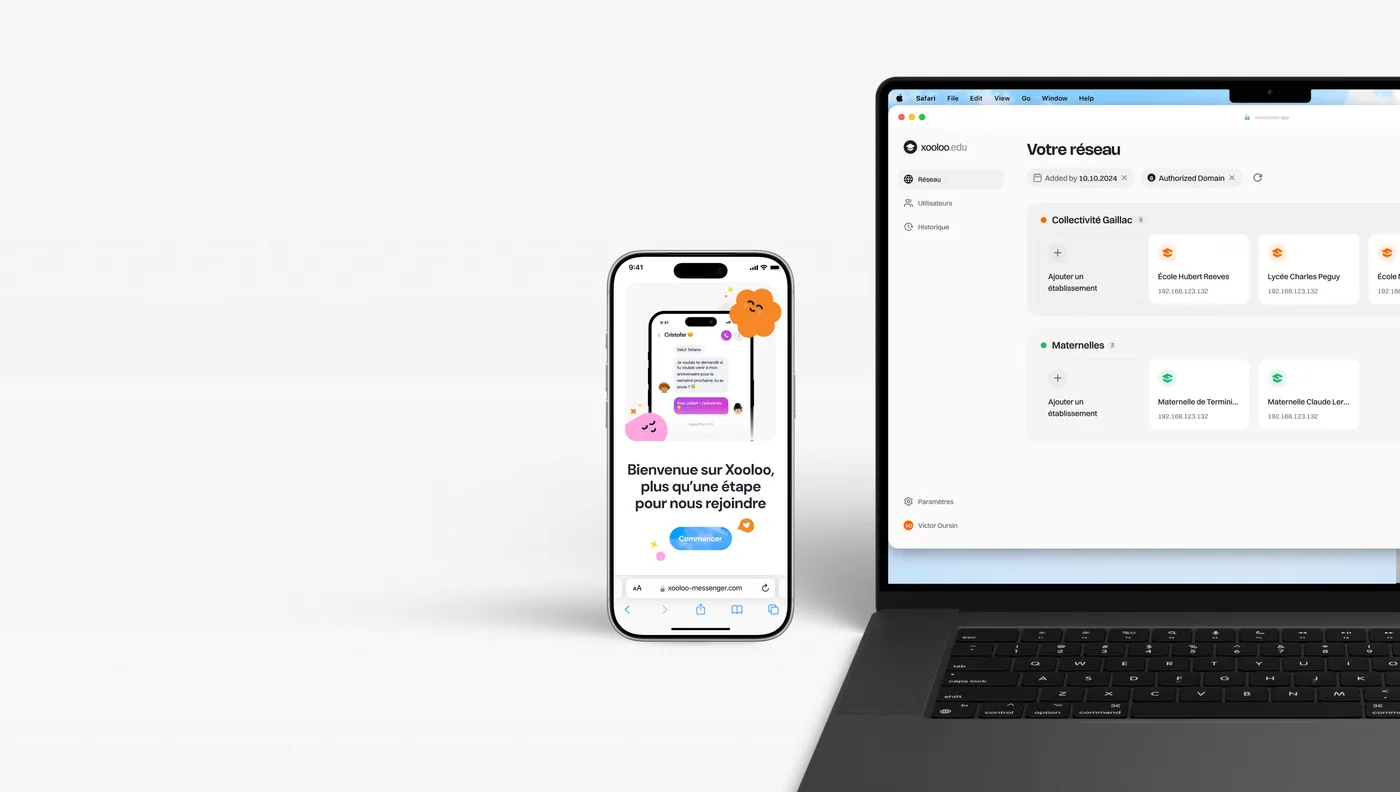
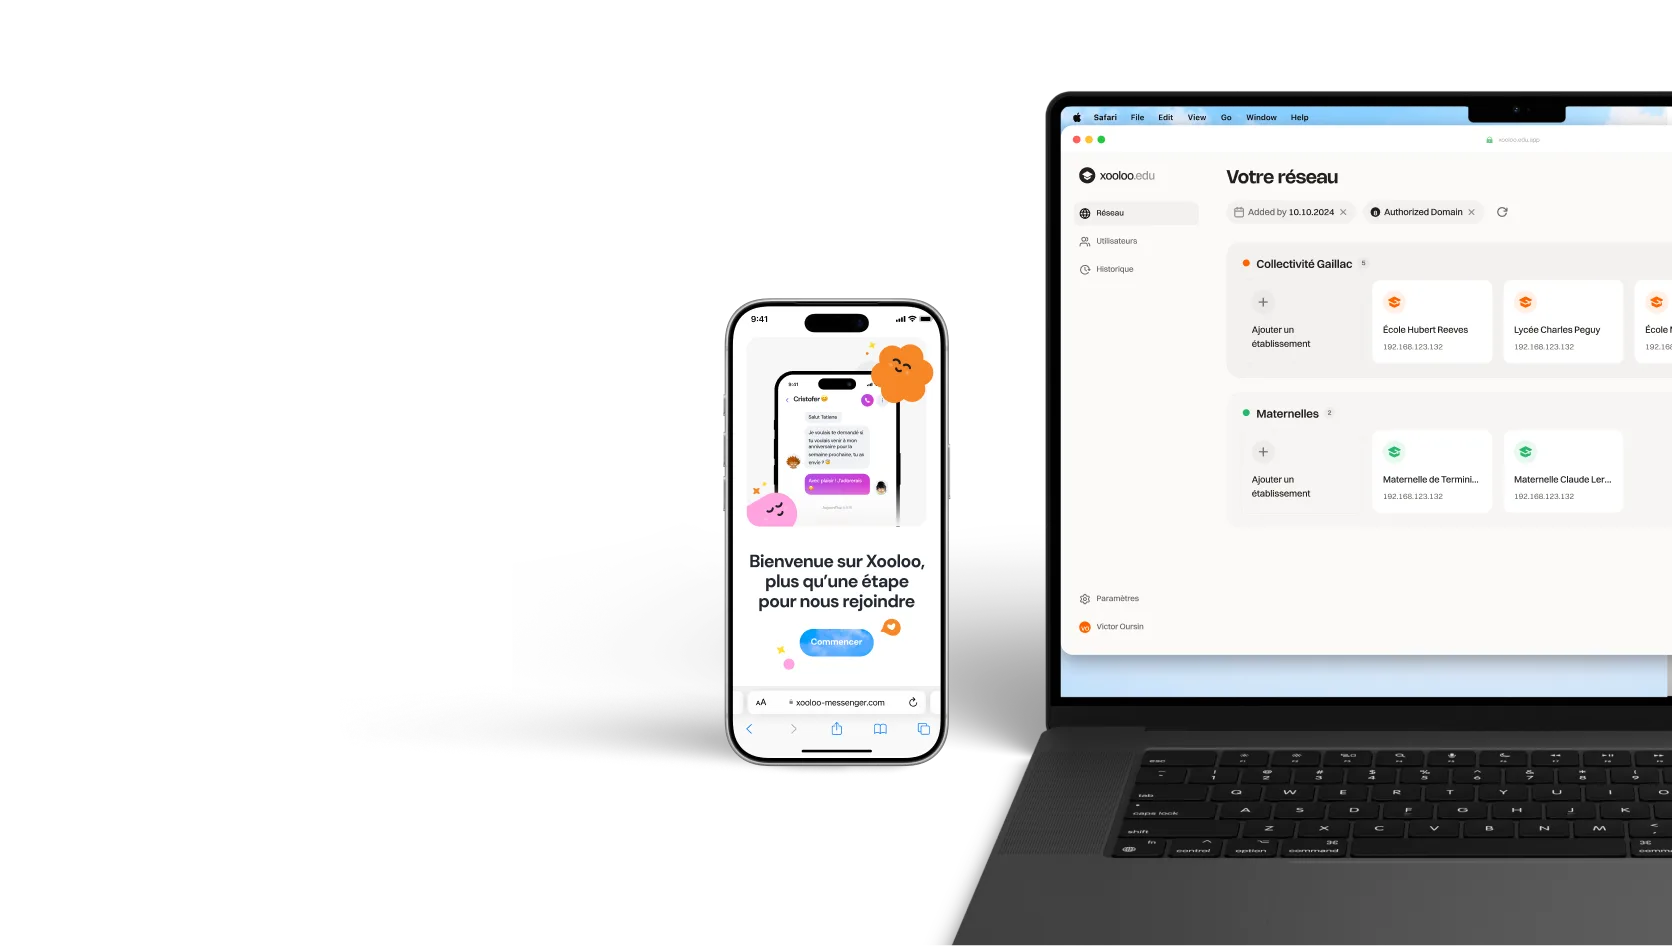
Refonte DA - Optimization mobile

diff --git a/components/ui/WorkCard.tsx b/components/ui/WorkCard.tsx
@@ -92,7 +92,7 @@ export default function WorkCard({
       ref={rootRef}
       data-work-card={slug || undefined}
       onClick={handleCardClick}
-      className={`relative w-full ${fill ? "h-full" : ""} rounded-[40px] overflow-hidden ${lightMode ? "light-card light-card-border" : "bg-background-surface"}${
+      className={`group relative w-full ${fill ? "h-full" : ""} rounded-[40px] overflow-hidden ${lightMode ? "light-card light-card-border" : "bg-background-surface"}${
         expandable
           ? " cursor-pointer transition-[outline-color] duration-200 outline outline-2 outline-transparent outline-offset-[-2px] hover:outline-alpha"
           : ""
@@ -170,8 +170,17 @@ export default function WorkCard({
                 className="hidden min-[426px]:block relative overflow-hidden w-full md:w-[575px]"
                 style={{ height: 40 }}
               >
-                {/* Scrolling logos — offset 107px on desktop to leave room for "Worked on" label */}
-                <div className="absolute inset-y-0 left-0 md:left-[107px]">
+                {/* Scrolling logos — offset 107px on desktop to leave room for "Worked on" label.
+                    Edges fade via a transparency mask so logos blend over any background. */}
+                <div
+                  className="absolute inset-y-0 left-0 right-0 md:left-[107px]"
+                  style={{
+                    WebkitMaskImage:
+                      "linear-gradient(to right, transparent 0, black 40px, black calc(100% - 40px), transparent 100%)",
+                    maskImage:
+                      "linear-gradient(to right, transparent 0, black 40px, black calc(100% - 40px), transparent 100%)",
+                  }}
+                >
                   <motion.div
                     className="flex items-center gap-8 h-full w-max"
                     animate={{ x: ["0%", "-50%"] }}
@@ -196,26 +205,10 @@ export default function WorkCard({
                   </motion.div>
                 </div>
 
-                {/* Left fade + "Worked on" label */}
-                <div
-                  aria-hidden
-                  className="absolute inset-y-0 left-0 pointer-events-none w-[90px] md:w-[320px]"
-                  style={{ background: "linear-gradient(to right, var(--color-bg-surface) 31%, transparent 100%)" }}
-                />
+                {/* "Worked on" label — sits left of the masked logo track */}
                 <p className="hidden md:block absolute left-0 top-1/2 -translate-y-1/2 font-body text-s text-text-secondary whitespace-nowrap">
                   Worked on
                 </p>
-
-                {/* Right fade */}
-                <div
-                  aria-hidden
-                  className="absolute inset-y-0 right-0 pointer-events-none"
-                  style={{
-                    width: 90,
-                    background:
-                      "linear-gradient(to left, var(--color-bg-surface) 31%, transparent 100%)",
-                  }}
-                />
               </div>
             )}
           </div>
@@ -241,6 +234,7 @@ export default function WorkCard({
                   type="button"
                   tabIndex={-1}
                   aria-hidden
+                  className="group-hover:bg-alpha"
                 />
               )}
             </div>

diff --git a/components/work/illustrations.tsx b/components/work/illustrations.tsx
@@ -5,13 +5,24 @@ import Image from "next/image";
 
 export function EnumaIllustration() {
   return (
-    <div className="absolute inset-0 top-[-170px] right-[-340px] bottom-0 left-8 max-lg:top-[-96px] max-lg:right-[-160px] max-lg:bottom-[160px] max-lg:left-[40px] max-md:top-[-176px] max-md:right-[-160px] max-md:left-[24px] max-md:bottom-[96px] max-[425px]:top-[-250px] max-[425px]:bottom-[150px] max-[425px]:left-0 max-[425px]:right-0 pointer-events-none" aria-hidden>
+    <div className="absolute inset-0 top-[-170px] right-[-340px] bottom-0 left-12 max-lg:top-[-96px] max-lg:bottom-0 max-md:top-0 max-md:right-auto max-md:bottom-0 max-md:left-8 max-md:w-full pointer-events-none" aria-hidden>
+      {/* Desktop / tablet asset (≥ 768px) */}
       <Image
         src="/img/work/enuma_illustration.png"
         alt=""
-        fill
+        width={4036}
+        height={2349}
         sizes="(max-width: 1024px) 100vw, 1280px"
-        className="object-cover opacity-[0.72]"
+        className="w-full object-cover opacity-[0.72] hidden md:block"
+      />
+      {/* Mobile asset (< 768px) */}
+      <Image
+        src="/img/work/enuma_illustration_mobile.webp"
+        alt=""
+        width={1374}
+        height={1350}
+        sizes="100vw"
+        className="w-full object-cover opacity-[0.72] md:hidden"
       />
     </div>
   );
@@ -20,15 +31,26 @@ export function EnumaIllustration() {
 export function MosoIllustration() {
   return (
     <div
-      className="absolute inset-0 max-md:top-[-90px] max-md:right-[-470px] max-md:left-[-28px] max-[425px]:top-[-60px] max-[425px]:right-[-162px] max-[425px]:left-0 pointer-events-none"
+      className="absolute inset-0 bottom-0 left-12 max-lg:right-[-96px] max-lg:bottom-0 max-md:top-0 max-md:right-auto max-md:bottom-0 max-md:left-8 max-md:w-[686px] pointer-events-none"
       aria-hidden
     >
+      {/* Desktop / tablet asset (≥ 768px) */}
       <Image
-        src="/img/work/moso_illustration.png"
+        src="/img/work/moso_illustration.webp"
         alt=""
-        fill
+        width={4036}
+        height={2349}
         sizes="(max-width: 1024px) 100vw, 1280px"
-        className="object-cover object-top"
+        className="w-full object-cover hidden md:block"
+      />
+      {/* Mobile asset (< 768px) */}
+      <Image
+        src="/img/work/moso_illustration_mobile.webp"
+        alt=""
+        width={1020}
+        height={832}
+        sizes="100vw"
+        className="w-full object-cover md:hidden"
       />
     </div>
   );

diff --git a/components/sections/Work.tsx b/components/sections/Work.tsx
@@ -1,6 +1,7 @@
 "use client";
 
 import { useState, useEffect, useRef, useCallback } from "react";
+import Image from "next/image";
 import { motion, useInView } from "framer-motion";
 import { useTranslation } from "@/lib/i18n";
 import { loc, type HomepageData } from "@/lib/queries";
@@ -49,12 +50,37 @@ export default function Work({ sliderOnly = false, data }: { sliderOnly?: boolea
       card: {
         lightMode: true,
         illustration: (
-          <img
-            src="/img/work/more.webp"
-            alt=""
-            className="absolute pointer-events-none max-w-none max-[425px]:top-[-53px] max-[425px]:left-[-80px] max-[425px]:w-[836px] max-[425px]:h-[473px] min-[426px]:top-[-112px] min-[426px]:left-[-128px] min-[426px]:w-[1086px] min-[426px]:h-[614px] md:top-[-2px] md:left-0"
+          <>
+          {/* Light gradient — sits behind the (transparent) illustration as the card background */}
+          <div
+            className="absolute inset-0 pointer-events-none"
+            style={{ background: "linear-gradient(180deg, rgba(245, 245, 245, 0.88) 0%, rgba(245, 245, 245, 0.72) 100%)" }}
             aria-hidden
           />
+          <div
+            className="absolute pointer-events-none max-[425px]:w-full min-[426px]:top-[-112px] min-[426px]:left-[-128px] min-[426px]:w-[1086px] md:top-[-2px] md:left-0"
+            aria-hidden
+          >
+            {/* Default asset (≥ 426px) */}
+            <Image
+              src="/img/work/more.webp"
+              alt=""
+              width={1672}
+              height={946}
+              sizes="(max-width: 1024px) 100vw, 1086px"
+              className="w-full object-cover max-[425px]:hidden"
+            />
+            {/* Mobile asset (< 426px) */}
+            <Image
+              src="/img/work/more_mobile.webp"
+              alt=""
+              width={328}
+              height={420}
+              sizes="100vw"
+              className="w-full object-cover hidden max-[425px]:block"
+            />
+          </div>
+          </>
         ),
         customContent: (
           <div className="absolute bottom-0 left-0 right-0 p-6 md:px-[48px] md:py-[48px] flex flex-col gap-8">

diff --git a/components/work/MosoCaseStudy.tsx b/components/work/MosoCaseStudy.tsx
@@ -109,7 +109,7 @@ export function MosoCaseStudyBody() {
             style={{ aspectRatio: "16 / 10" }}
           >
             <Image
-              src="/img/work/moso_illustration.png"
+              src="/img/work/moso_illustration.webp"
               alt="Moso Flow interface"
               fill
               sizes="(max-width: 1024px) 100vw, 760px"
@@ -199,7 +199,7 @@ export default function MosoCaseStudy() {
       >
         <div className="absolute top-[-80px] left-0 right-0 bottom-0 overflow-hidden">
           <Image
-            src="/img/work/moso_illustration.png"
+            src="/img/work/moso_illustration.webp"
             alt=""
             fill
             priority
